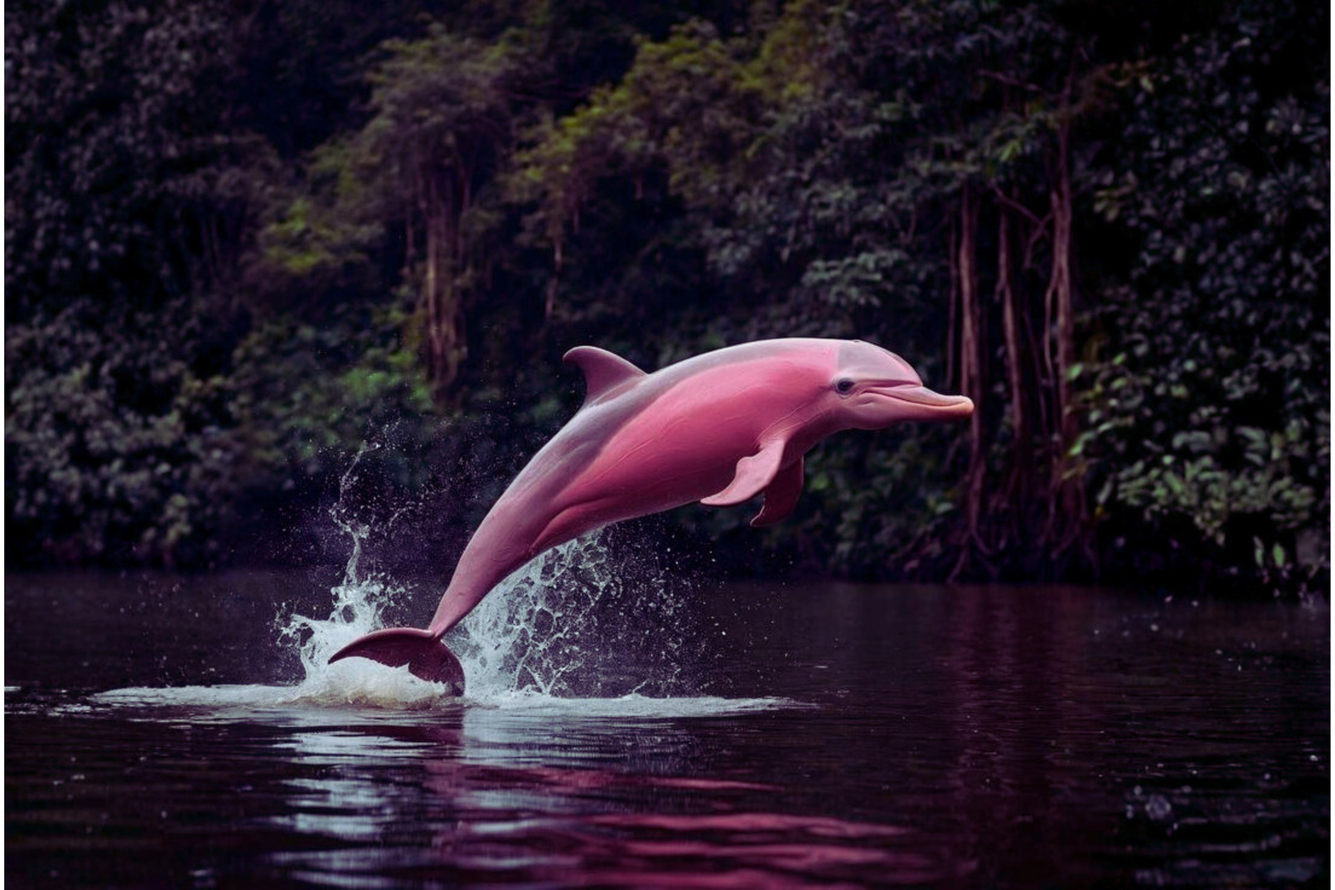
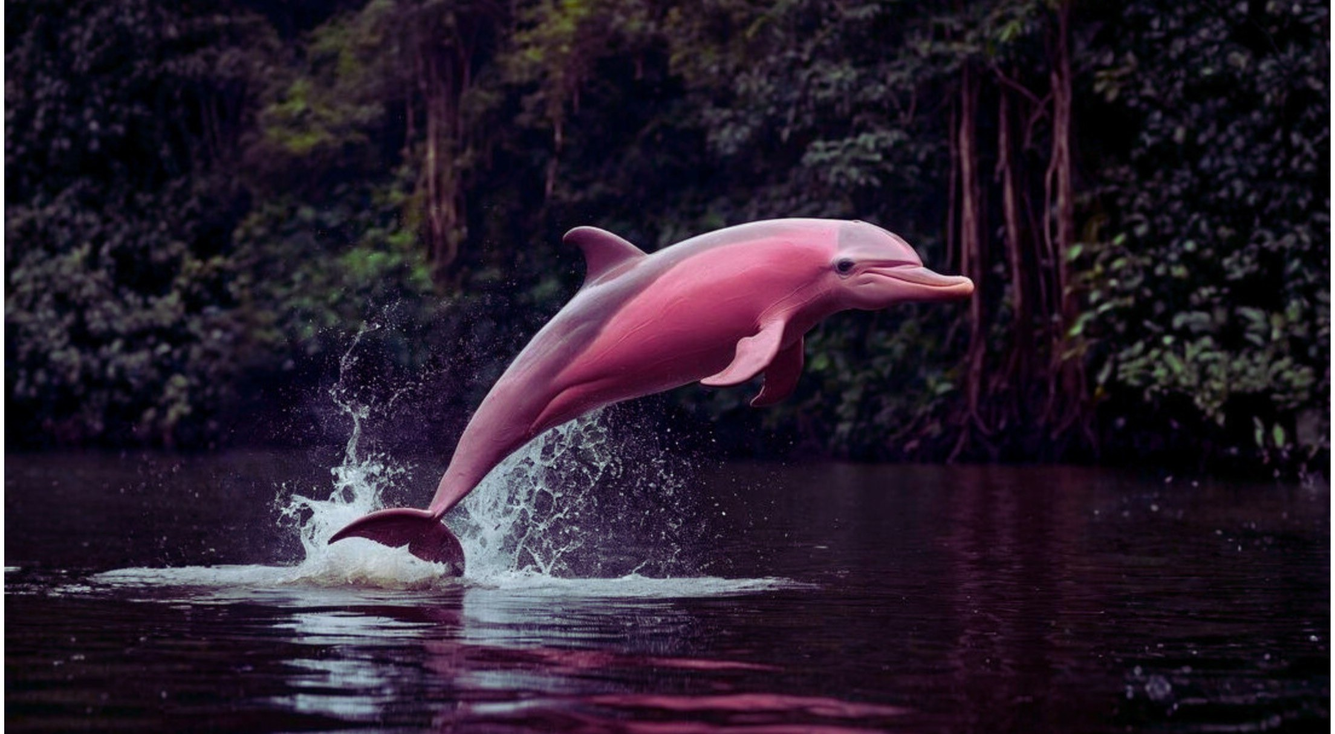
doing the css. They gonna be pretty

diff --git a/src/routes/+page.svelte b/src/routes/+page.svelte
@@ -3,18 +3,20 @@
 
 <main>
     <section class="hero">
-        <h1>Pink Dolphins</h1>
-        <p>
-            The world's largest freshwater dolphin is rapidly disappearing.
-            Discover the myths, the facts, and the fight to save the Inia
-            geoffrensis - The Pink Dolphin
-        </p>
-        <a href="https/github.com/AliciaEA" class="btn">Read More</a>
+        <div class="container">
+            <h1>Pink Dolphins</h1>
+            <p>
+                The world's largest freshwater dolphin is rapidly disappearing.
+                Discover the myths, the facts, and the fight to save the Inia
+                geoffrensis - The Pink Dolphin
+            </p>
+            <a href="https/github.com/AliciaEA" class="btn">Read More</a>
+        </div>
     </section>
 
-    <section class="intro">
+    <section class="intro container">
         <img src="./images/pink-dolphin-intro.png" alt="Pink Dolphin" />
-        <div class="text">
+        <div class="text container">
             <h2>Meet the Pink Dolphin</h2>
             <p>
                 Often called the <strong>Boto</strong>, the Amazon Pink River
@@ -111,9 +113,15 @@
 </main>
 
 <style>
+    /* Hero Section */
+    h1 {
+        font-family: "Jim Nightshade";
+        font-size: 3.5rem;
+        color: rgb(245, 221, 232);
+    }
     .hero {
         background: linear-gradient(
-                rgba(87, 71, 71, 0.35),
+                rgba(207, 161, 161, 0.35),
                 rgba(49, 8, 8, 0.35)
             ),
             url("/images/hero-background.jpg");
@@ -121,5 +129,73 @@
         background-position: center;
         height: 600px;
         text-align: center;
+        display: flex;
+        flex-direction: column;
+        align-items: center;
+        justify-content: center;
+    }
+
+    .hero p {
+        color: rgb(209, 186, 199);
+        margin-bottom: 3rem;
+    }
+
+    /* Intro Section */
+    .intro {
+        display: grid;
+        grid-template-columns: 600px 1fr;
+        align-items: center;
+        margin-top: 5rem;
+    }
+    .intro img {
+        margin: 0 auto 20px auto;
+        max-width: 800px;
+        border-radius: 10px;
+    }
+
+    /* Info Section */
+    .info{
+        margin: 6rem 3rem;
+        
+    }
+    .intro-facts{
+        display: grid;
+    grid-template-columns: repeat(auto-fit, minmax(250px, 1fr));
+    gap: 20px;
+    margin-top: 3rem;
+    }
+    .mini-fact span{
+        font-size: 6rem;
+    }
+    .mini-fact{
+        background-color: rgb(226, 200, 209);
+        border-radius: 50px;
+        padding: 50px;
+        text-align: center;
+    }
+    .mini-fact:hover{
+        background-color: rgb(202, 174, 184);
+        border-radius: 100px;
+        padding: 50px;
+        text-align: center;
+    }
+
+
+    /* Media */
+    
+    @media (max-width: 999px) {
+        .intro {
+            flex-direction: column;
+            grid-template-columns: 1fr;
+            text-align: center;
+        }
+        .intro img {
+            max-width: 400px;
+        }
+    }
+    @media (max-width: 450px) {
+        .intro img {
+            max-width: 250px;
+        }
     }
 </style>

diff --git a/src/routes/+layout.svelte b/src/routes/+layout.svelte
@@ -1,15 +1,18 @@
 <script>
 	import favicon from "$lib/assets/favicon.svg";
 	import ZooBanner from "$lib/components/zoo.svelte";
+	import '../app.css'
 
 	let { children } = $props();
 </script>
 
 <svelte:head>
 	<link rel="icon" href={favicon} />
-	<!-- Pets Icon, Google Fonts -->
+	<!-- Pets, Destruction, Skull, Rowing Icon, Google Fonts (Broooo it had to be alphabetically ordered)-->
 	
-	<link rel="stylesheet" href="https://fonts.googleapis.com/css2?family=Material+Symbols+Outlined:opsz,wght,FILL,GRAD@20..48,100..700,0..1,-50..200&icon_names=destruction,pets,rowing,skull" />
+	<link rel="stylesheet" href="https://fonts.googleapis.com/css2?family=Material+Symbols+Outlined:opsz,wght,FILL,GRAD@20..48,100..700,0..1,-50..200&icon_names=destruction,pets,rowing,skull" /> 
+	
+
 	
 </svelte:head>
 
@@ -18,8 +21,3 @@
 
 {@render children()}
 
-<style>
-	body {
-		background-color: rgb(228, 208, 181);
-	}
-</style>
